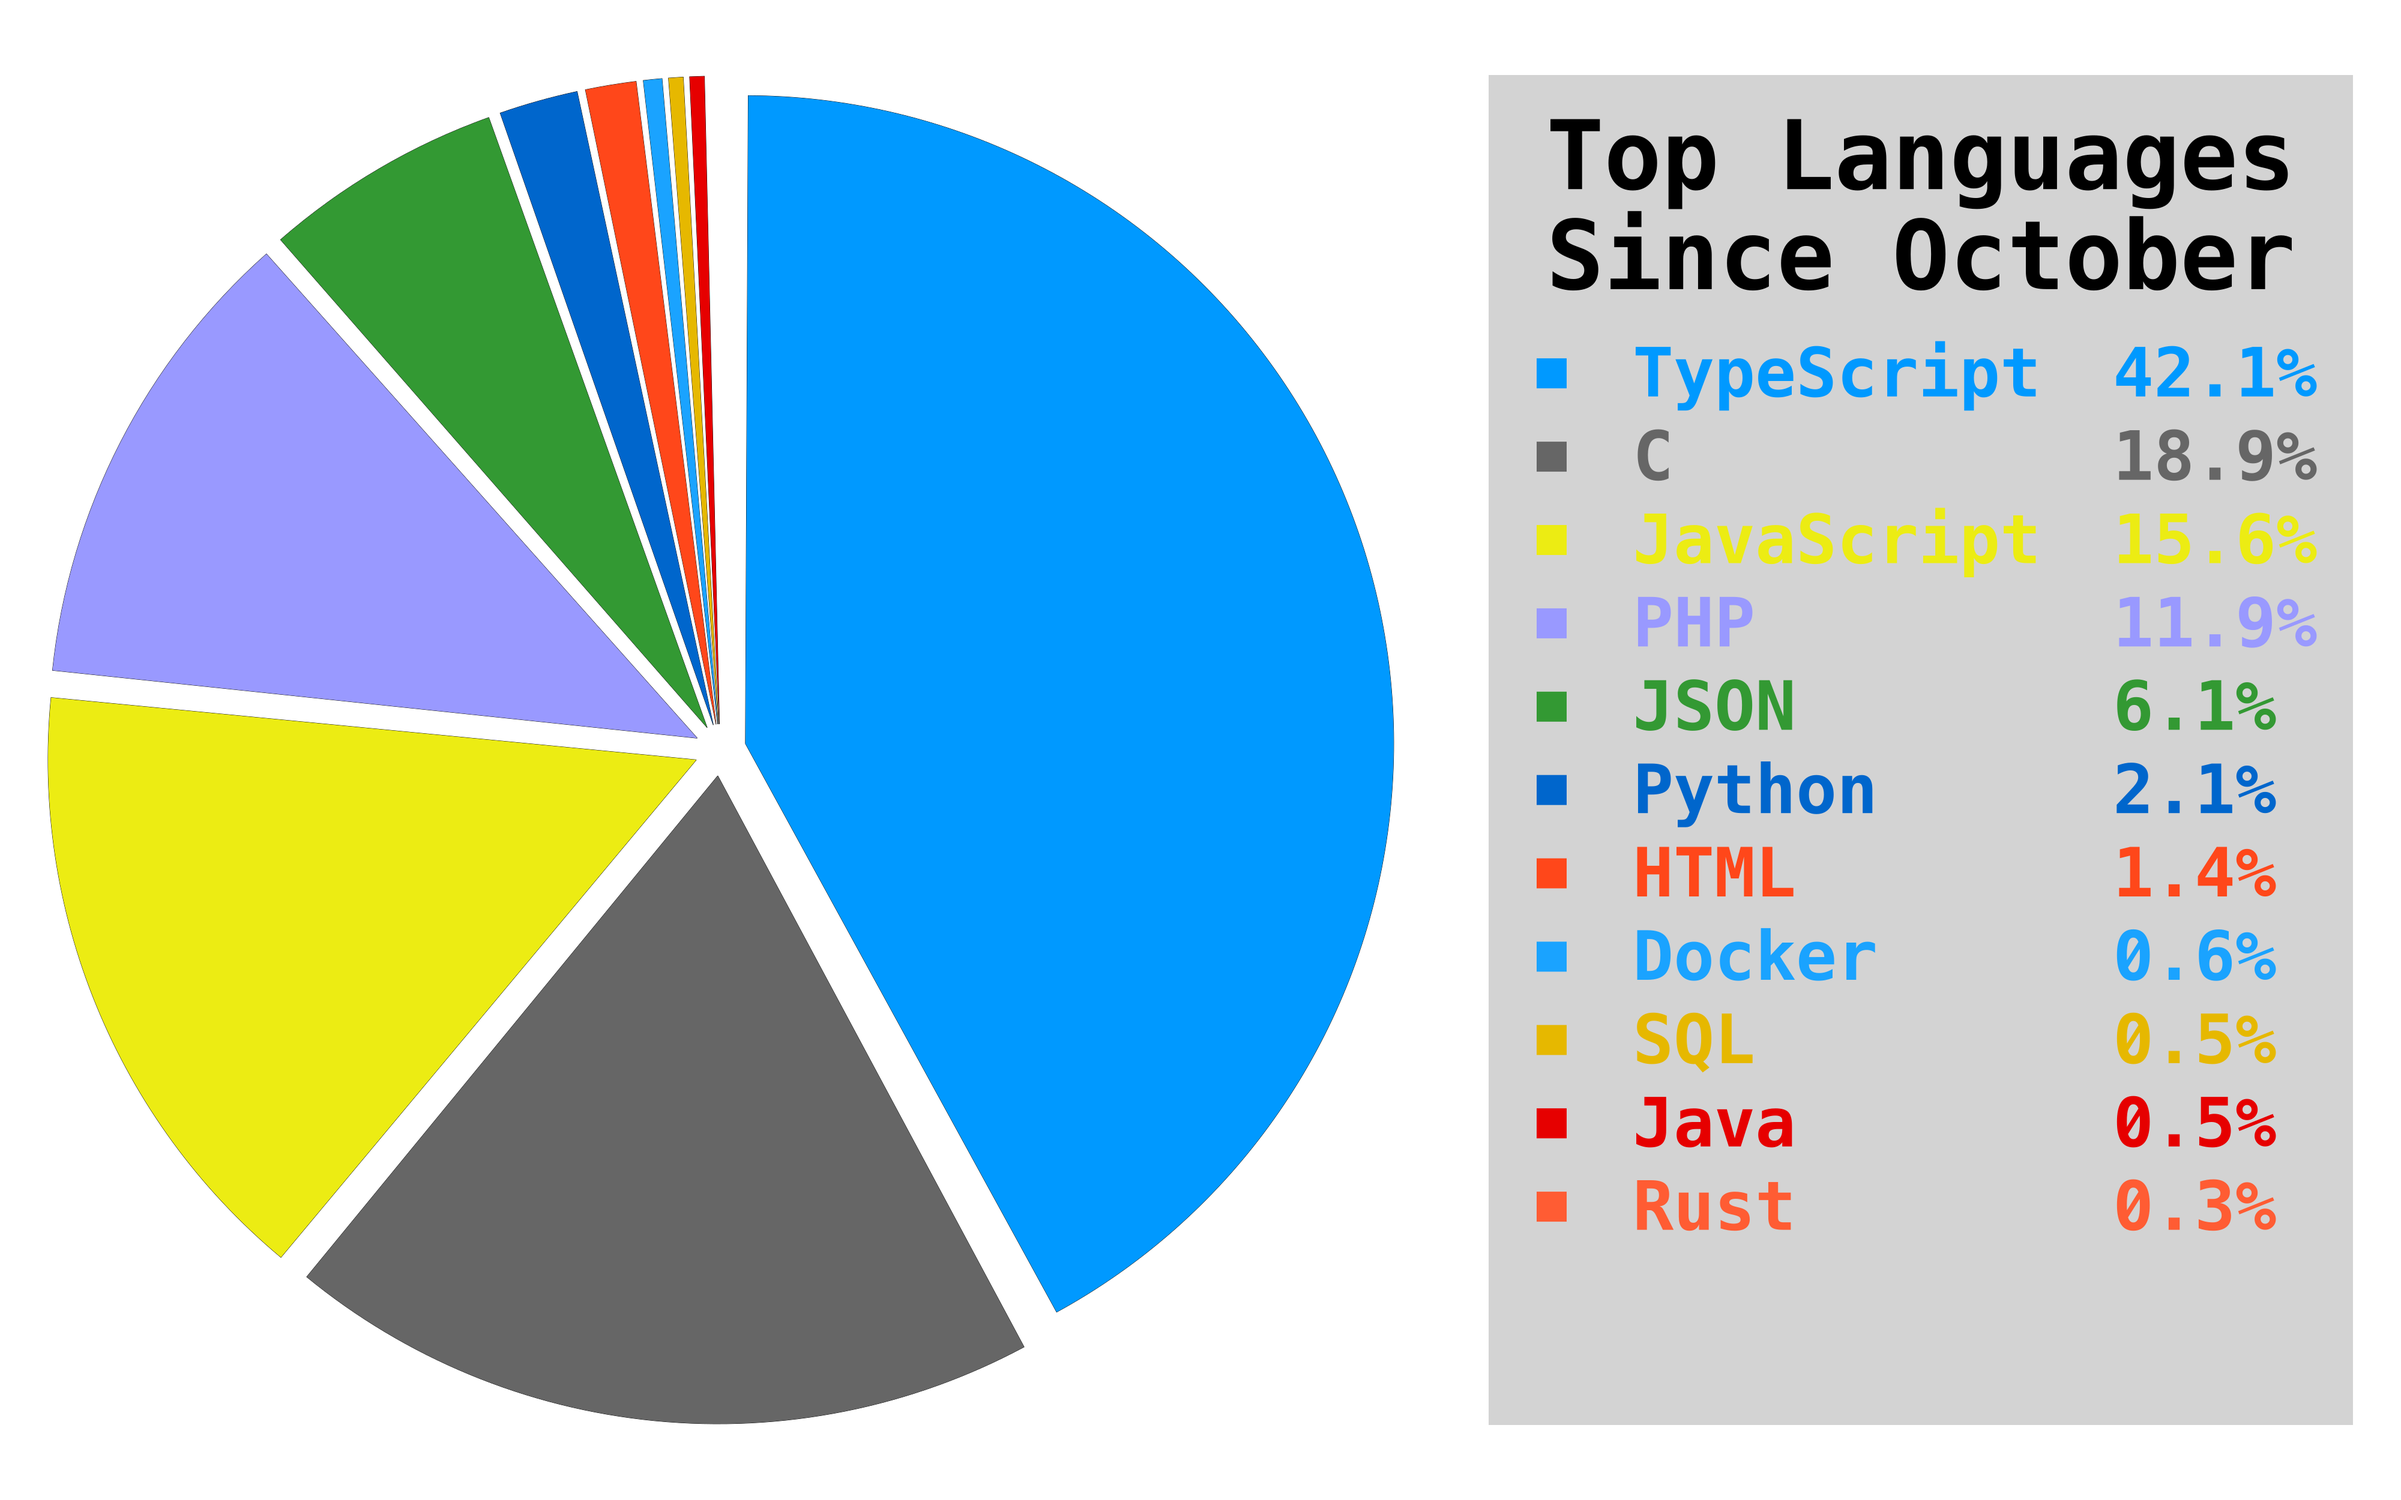
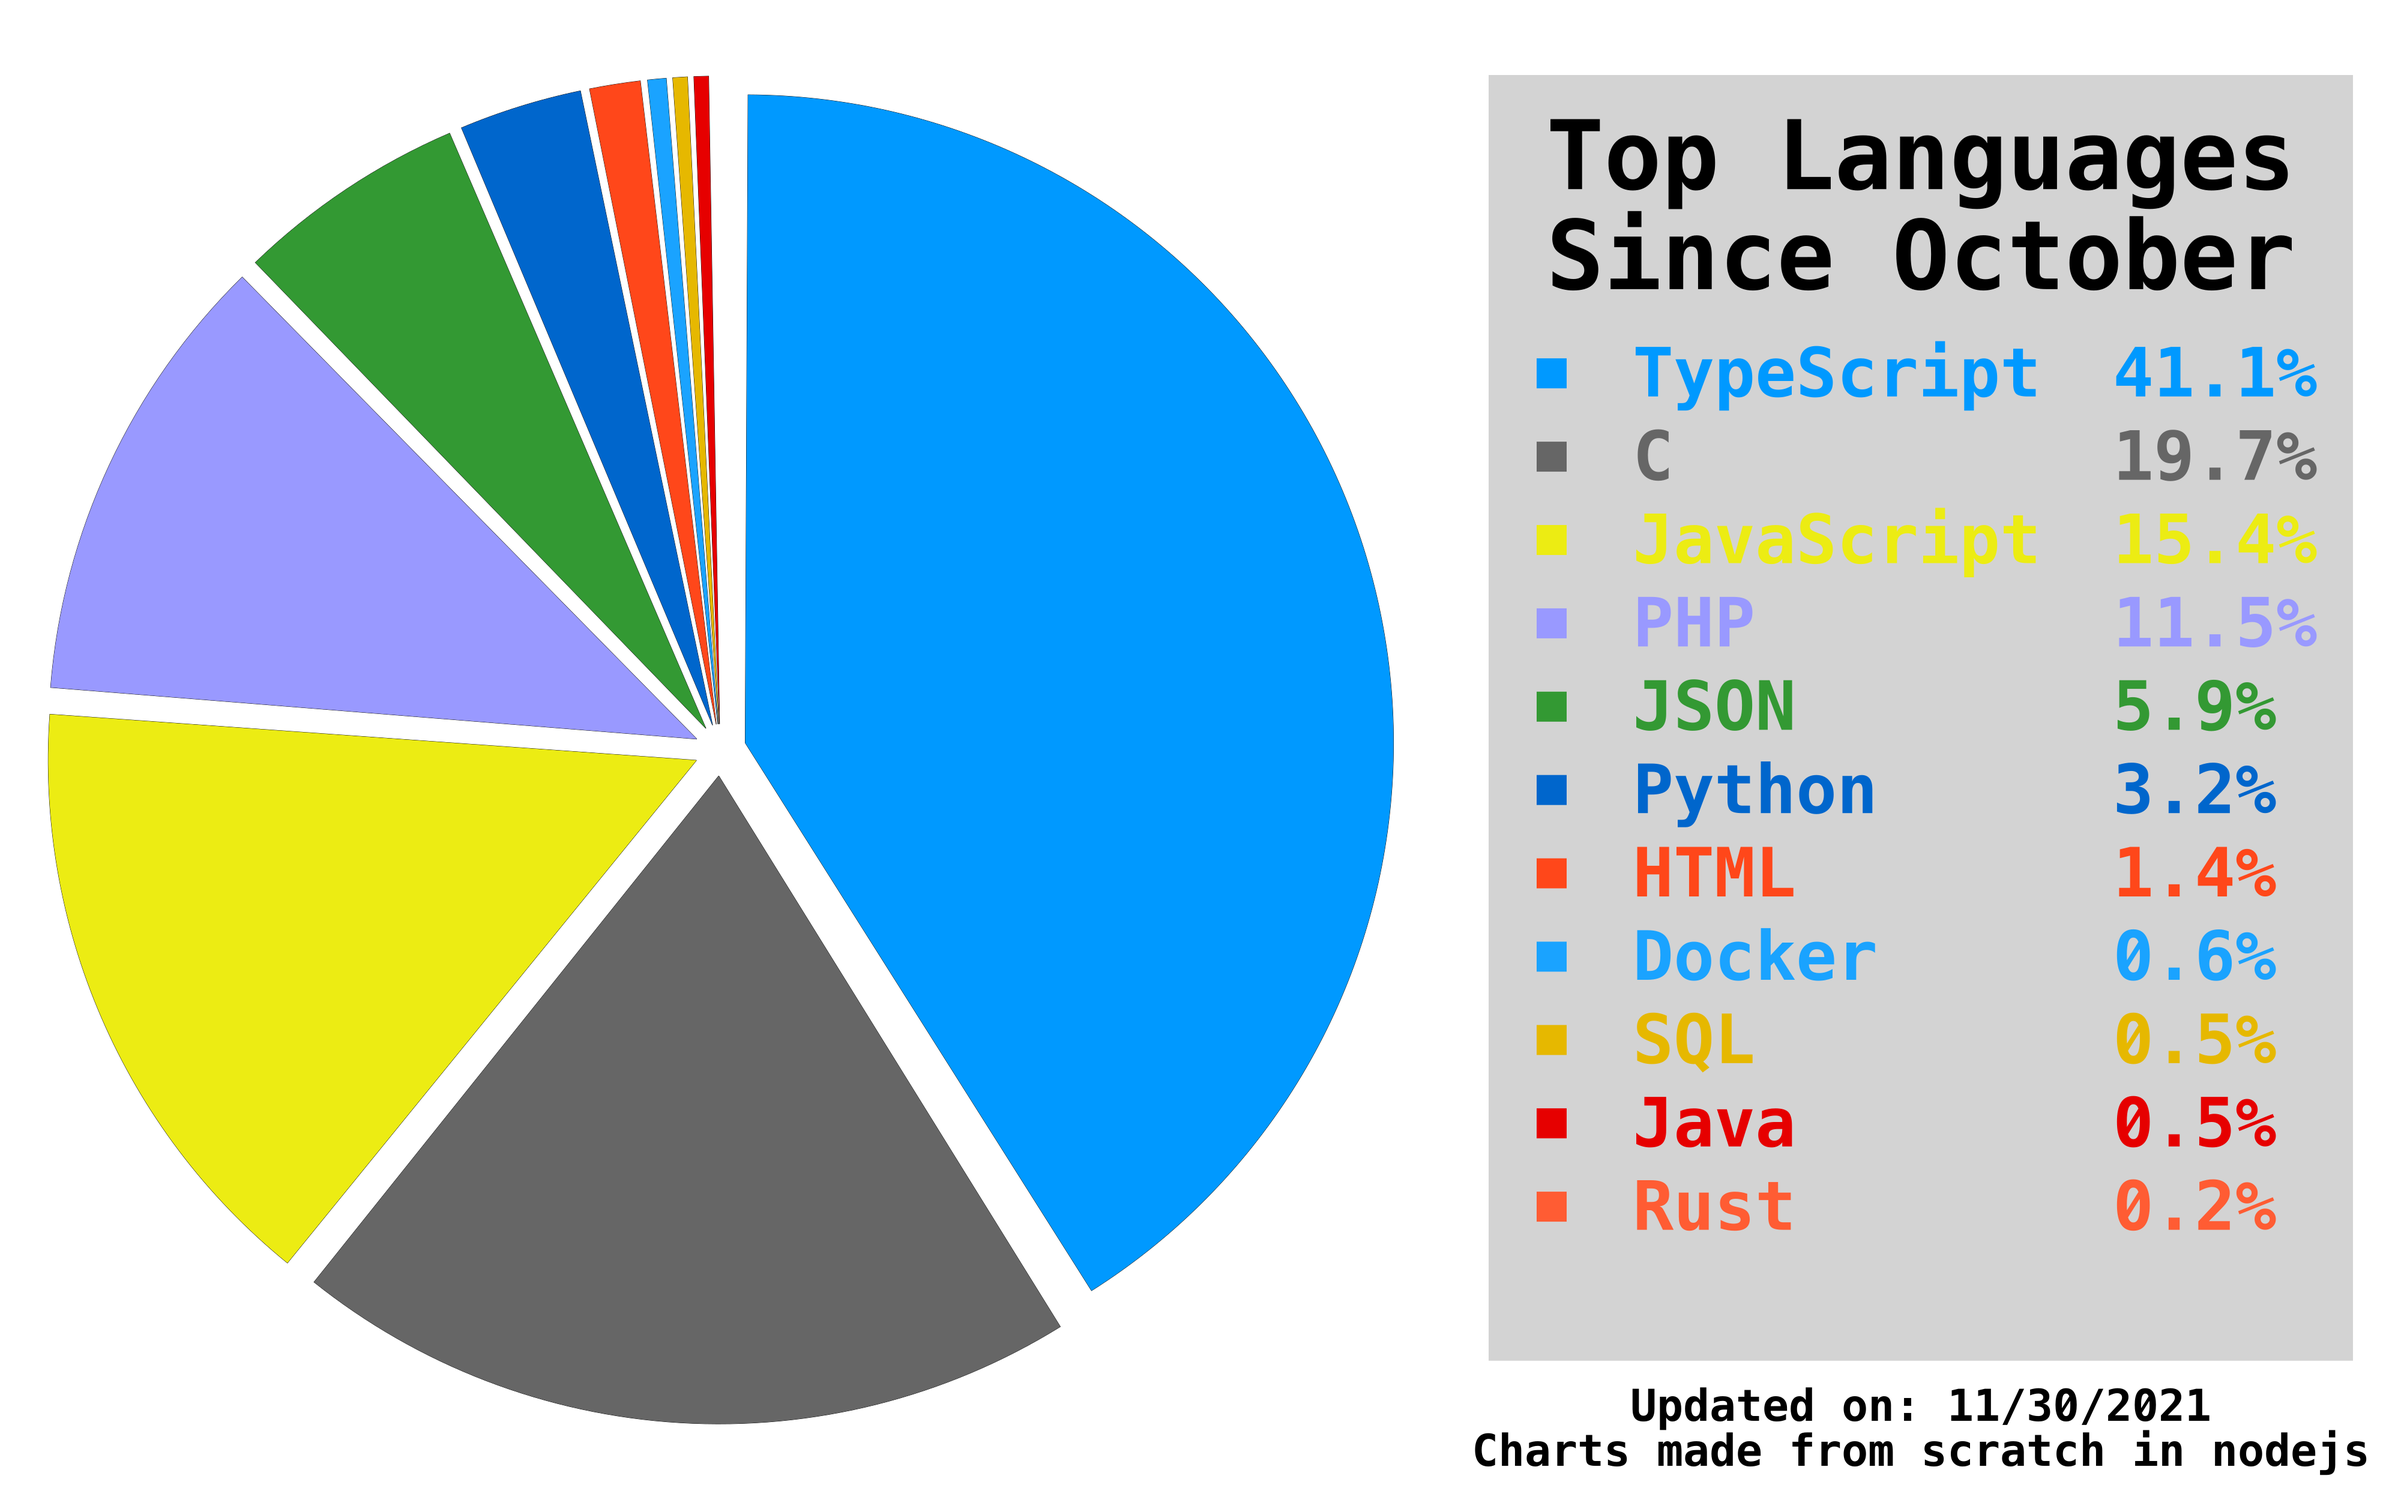
Added more info about source

diff --git a/src/drawGraph.ts b/src/drawGraph.ts
@@ -47,7 +47,7 @@ const createPiGraph = async (ctx: any, languages: any[], width:number, height:nu
 
 const createLegend = async (ctx: any, languages: any[], start: number, width:number, height:number) => {
 	ctx.fillStyle = "lightgrey";
-	ctx.fillRect(start+ width/20, height/20, width-width/10, height-height/10);
+	ctx.fillRect(start+ width/20, height/20, width-width/10, height-height/7);
 	ctx.textBaseline = "top";
 	ctx.textAlign = 'center';
 
@@ -66,9 +66,12 @@ const createLegend = async (ctx: any, languages: any[], start: number, width:num
 		ctx.fillText(language.name, start+2*width/10, (i+4)*height/18);
 		ctx.fillText(language.percent.toString() + "%", start+7*width/10, (i+4)*height/18);
 	}
-	languages.forEach((language) => {
-
-	})
+	ctx.font = 'bold 55pt Menlo';
+	ctx.fillStyle = "black";
+	ctx.textAlign = 'center';
+	let date = new Date().toLocaleDateString().toString();
+	ctx.fillText("Updated on: "+date, start+width/2, 18.4*height/20);
+	ctx.fillText("Charts made from scratch in nodejs", start+width/2, 19*height/20);
 }
 
 const createImage = async () => {

diff --git a/src/cronjobs/cronjobs.ts b/src/cronjobs/cronjobs.ts
@@ -1,6 +1,7 @@
 import cron from "node-cron";
 import drawGraph from "../drawGraph";
 const cronjobs = () => {
+	drawGraph();
 	cron.schedule('0 1 * * *', () => {
 		drawGraph();
 	});
